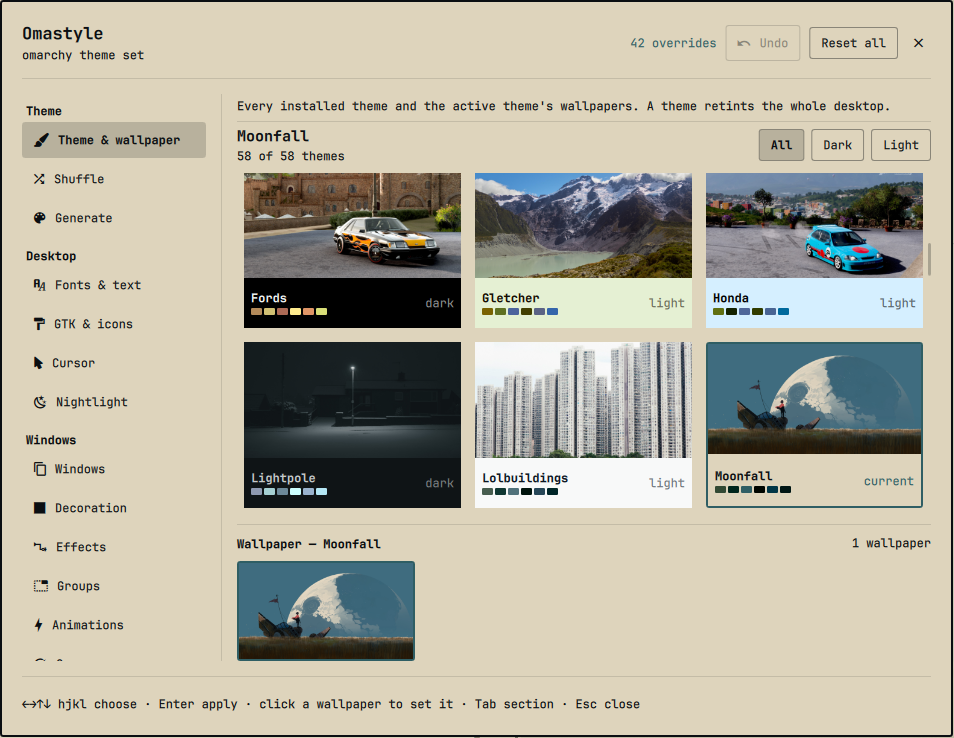
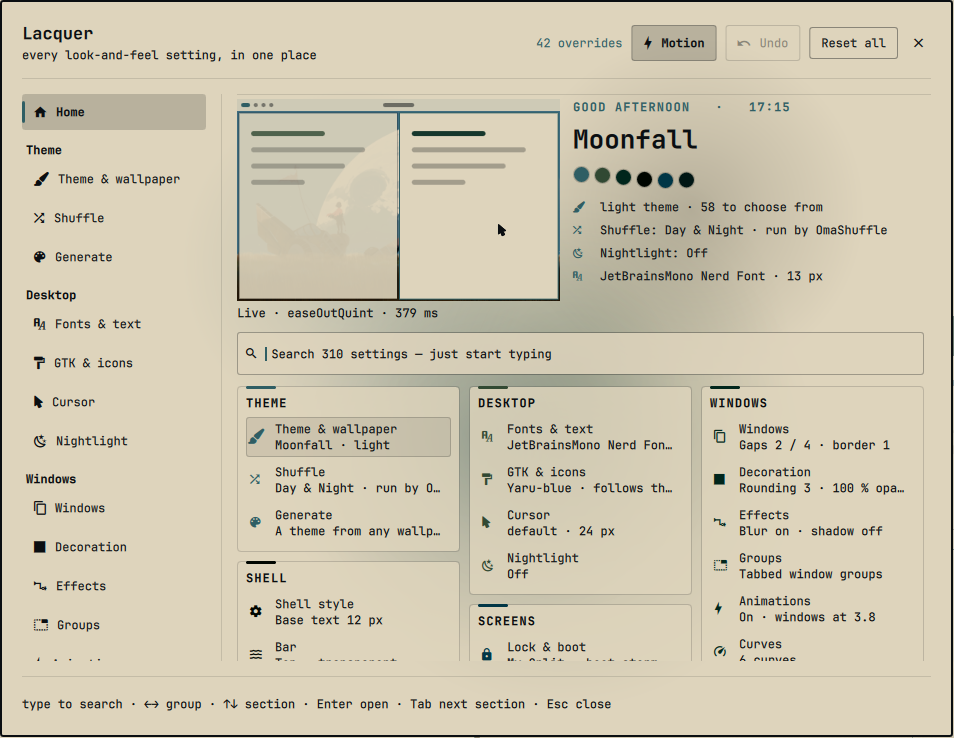
Open beta: issue forms, lacquer-report, new preview
- Bug and idea issue forms that ask for the setup details a beta needs
- lacquer-report prints Lacquer commit, Omarchy/Hyprland versions,
  screens and scale, terminal, theme, third-party plugins and recent
  Lacquer log lines, for pasting into an issue
- README: beta note asking testers with different setups to report
- preview.png shows Lacquer's Home screen (was still titled Omastyle)
- Version 0.3.0

Claude-Session: https://claude.ai/code/session_012kioSKKt4kPGx5XamR47ye

diff --git a/README.md b/README.md
@@ -11,6 +11,15 @@ One app for how your Omarchy desktop looks.
 | Screens | Lock & boot · Screensaver |
 | Apps | Terminals · btop & prompt · Plugins |
 
+> **Beta.** Lacquer has so far been used on one laptop (1080p, one screen,
+> foot, mostly light themes). If yours is different (several screens,
+> scaling, a dark theme, kitty/ghostty/alacritty, no lock-explorer), please
+> try it and [open an issue](https://github.com/Deunnis/omarchy-lacquer/issues/new/choose)
+> for anything that breaks or looks wrong. Paste the output of
+> `~/.config/omarchy/plugins/io.github.deunnis.lacquer/lacquer-report` with it.
+> First-run backups and `lacquer-cleanup` (see [Remove](#remove)) are there so
+> nothing is hard to undo.
+
 ## Install
 
     omarchy plugin add https://github.com/Deunnis/omarchy-lacquer --enable
@@ -444,6 +453,7 @@ so the plugin directory comes from `Qt.resolvedUrl(".")` instead.
 | `shell-json-set` | one top-level `shell.json` key from a fresh read |
 | `lacquer-reapply.hook` | copied into `hooks/theme-set.d/` |
 | `lacquer-cleanup` | undoes Lacquer's changes before removal |
+| `lacquer-report` | prints setup details and recent log lines for a bug report |
 
 ## Credits
 
